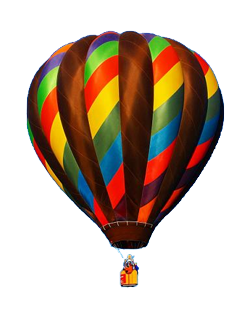
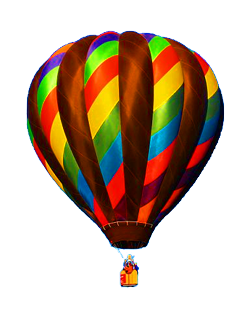
Added balloon life and flashing.

diff --git a/game.py b/game.py
@@ -78,6 +78,12 @@ class Balloon (pygame.sprite.Sprite):
     def update(self, lives):
         '''update the balloon and check to make sure it hasn't moved off the screen'''
         self.lives = lives
+        if lives > 7:
+            self.image = pygame.transform.scale (load_image('assets/balloon.png'), (132, 200))
+        if lives <= 7 and  lives >3:
+            self.image = pygame.transform.scale (load_image('assets/balloon1.png'), (132, 200))
+        if lives <= 3:
+            self.image = pygame.transform.scale (load_image('assets/balloon2.png'), (132, 200))
         if ((self.x + self.dx) <= 0):
             self.dx = self.dx * -1
         if ((self.x + self.dx) >= self.screen.get_size()[0]):
@@ -92,8 +98,7 @@ class Balloon (pygame.sprite.Sprite):
     
     def draw(self):
         '''draw the balloon in its current position'''
-        if self.active:
-            self.screen.blit(self.image, self.rect)
+        self.screen.blit(self.image, self.rect)
             
             
 class Enemy(pygame.sprite.Sprite):
@@ -200,6 +205,8 @@ def game(screen):
     elapsed_time = 0
     timer = 0
     justcollided = 0
+    imagechanged = False
+    
     
     while True:
         #game loop
@@ -286,14 +293,17 @@ def game(screen):
         
         sky.update()
         sky.draw()
+      
         
-        
-        balloon.update(lives)
+           
+       # balloon.update(lives)
         balloon.draw()
         if balloon.y <= SCREEN_HEIGHT / 3:
             balloon.dy = 0
             sky.scrolling = True
         if justcollided <= 0:
+            balloon.update(lives)
+            
             for enemy in airplanes:
                 if pygame.sprite.collide_mask(enemy, balloon):
                     # ADD GAME OVER SCREEN HERE
@@ -343,7 +353,9 @@ def game(screen):
                     timer = 25
                     powerup.kill()
                     score += 10
-            
+        else:
+           balloon.image = pygame.transform.scale (load_image('assets/balloonflash.png'), (132, 200))
+           imagechanged = True
         airplanes.update()
         airplanes.draw(screen)
         birds.update()
